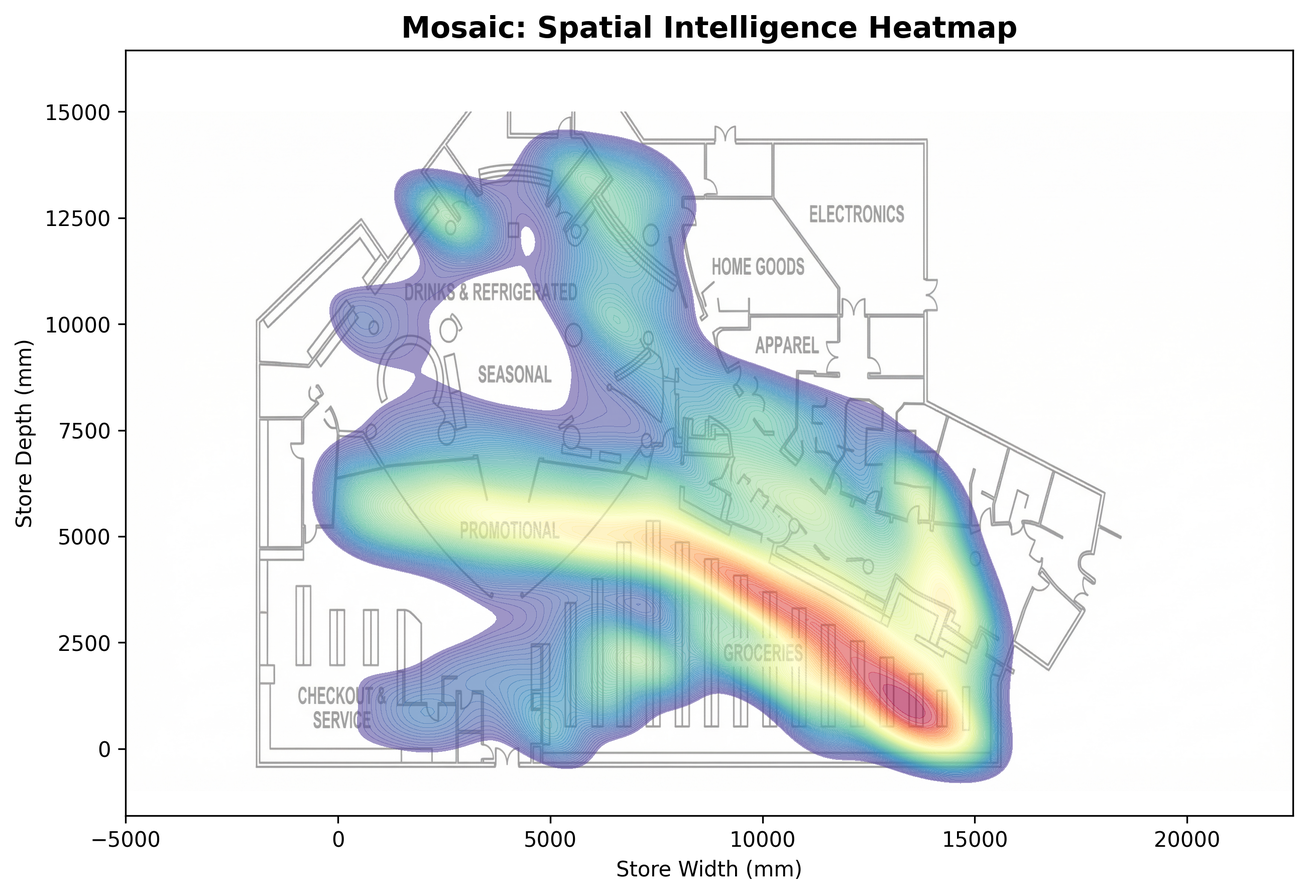
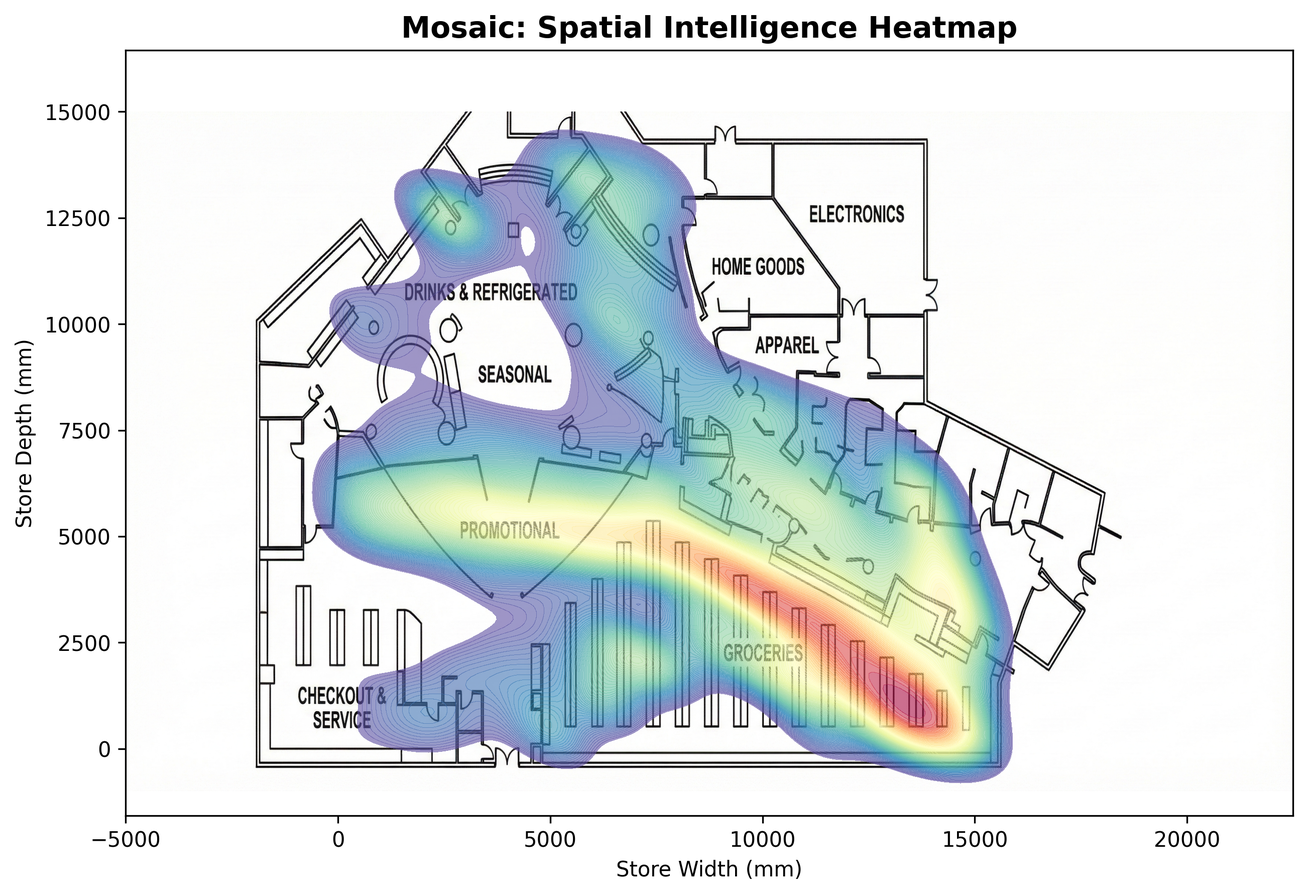
Added heatmap genration, ATC cleaning scripts and Enhanced heatmap (#2)

diff --git a/clean_atc_data.py b/clean_atc_data.py
@@ -1,0 +1,113 @@
+import pandas as pd
+import os
+
+# --- CONFIGURATION ---
+INPUT_FILE = "atc-20121125.csv"       # The file you renamed
+OUTPUT_FILE = "mosaic_history_1125.csv" # The file your Heatmap/Dashboard needs
+
+# 1. STORE BOUNDARIES (Keep data INSIDE this box)
+# Coordinates in ATC are usually millimeters.
+X_MIN, X_MAX = -6000, 9000
+Y_MIN, Y_MAX = -3000, 12000
+
+# 2. OBSTACLES / SHELVES (Remove data INSIDE these boxes)
+# These coordinates must be relative to the *normalized* store (0 to 15000).
+# You will need to tweak these numbers based on your specific 'store_layout.png'.
+# Format: (x_min, x_max, y_min, y_max)
+# 2. OBSTACLES / SHELVES (Remove data INSIDE these boxes)
+# Coordinates estimated from 'final_heatmap1118.png'
+# Format: (x_min, x_max, y_min, y_max)
+RESTRICTED_ZONES = [
+    # --- BOTTOM LEFT ---
+    (2000, 4500, 1500, 3000),    # Checkout & Service Counters
+    
+    # --- MIDDLE LEFT ---
+    (2500, 4000, 5500, 7000),    # 'Promotional' Circular Rack Area
+    (3000, 5000, 8000, 10000),   # 'Seasonal' Area Shelves
+
+    # --- TOP LEFT ---
+    (2000, 5000, 10000, 13000),  # Drinks & Refrigerated Section Wall
+    
+    # --- TOP RIGHT ---
+    (7000, 9000, 11000, 12000),  # Home Goods Shelves
+    (10000, 12500, 12000, 14000),# Electronics Section Wall/Counters
+    
+    # --- MIDDLE RIGHT ---
+    (8500, 10500, 9000, 11000),  # Apparel Racks (Cluster of shelves)
+
+    # --- BOTTOM RIGHT (GROCERY AISLES) ---
+    # These are thin long rectangles representing the actual shelves
+    (6000, 10000, 2500, 3200),   # Grocery Shelf Row 1 (Bottom)
+    (5500, 9500, 4500, 5200),    # Grocery Shelf Row 2 (Middle)
+    
+    # --- ENTRANCE / EXIT BUFFERS (Optional) ---
+    # Sometimes data is messy at the very edges of the map
+    (0, 1000, 0, 15000),         # Left Edge Buffer
+    (14000, 15000, 0, 15000),    # Right Edge Buffer
+]
+
+print(f"⏳ Looking for {INPUT_FILE}...")
+
+if not os.path.exists(INPUT_FILE):
+    print(f"❌ Error: Could not find '{INPUT_FILE}'.")
+    print("   Please rename your downloaded ATC file to 'atc_raw.csv' and place it here.")
+    exit()
+
+# --- STEP 1: LOAD DATA ---
+print("   Loading dataset (this might take a moment)...")
+
+column_names = ["time", "person_id", "x", "y", "z", "velocity", "angle", "facing"]
+
+try:
+    # Loading 500k rows for demo speed
+    df = pd.read_csv(INPUT_FILE, names=column_names, header=None, nrows=500000)
+except Exception as e:
+    print(f"❌ Error reading CSV: {e}")
+    exit()
+
+print(f"   Loaded {len(df)} rows.")
+
+# --- STEP 2: CROP TO STORE BOUNDARIES ---
+print("   Cropping to store boundaries...")
+df_shop = df[
+    (df['x'] >= X_MIN) & (df['x'] <= X_MAX) &
+    (df['y'] >= Y_MIN) & (df['y'] <= Y_MAX)
+].copy()
+
+if df_shop.empty:
+    print("⚠ Warning: Crop resulted in 0 rows. Check your X/Y MIN/MAX values.")
+    exit()
+
+print(f"   Rows inside store: {len(df_shop)}")
+
+# --- STEP 3: NORMALIZE COORDINATES ---
+# Shift coordinates so the store starts at (0,0)
+df_shop['x'] = df_shop['x'] - X_MIN
+df_shop['y'] = df_shop['y'] - Y_MIN
+
+# --- STEP 3.5: REMOVE POINTS INSIDE WALLS/SHELVES ---
+print("   Filtering out aisles and shelf boundaries...")
+initial_count = len(df_shop)
+
+for (r_xmin, r_xmax, r_ymin, r_ymax) in RESTRICTED_ZONES:
+    # We keep only the rows that are NOT inside the restricted rectangle
+    df_shop = df_shop[~((df_shop['x'] >= r_xmin) & (df_shop['x'] <= r_xmax) &
+                        (df_shop['y'] >= r_ymin) & (df_shop['y'] <= r_ymax))]
+
+removed_count = initial_count - len(df_shop)
+print(f"   Removed {removed_count} noise points found inside solid objects.")
+
+# --- STEP 4: CLEANUP ---
+final_df = df_shop[['time', 'person_id', 'x', 'y', 'velocity']]
+
+start_time = final_df['time'].min()
+final_df['time'] = final_df['time'] - start_time
+
+if final_df['time'].max() > 100000: 
+    final_df['time'] = final_df['time'] / 1000
+
+final_df['time'] = final_df['time'].astype(int)
+
+# --- SAVE ---
+final_df.to_csv(OUTPUT_FILE, index=False)
+print(f"✅ Success! Created '{OUTPUT_FILE}' with {len(final_df)} rows.")

diff --git a/generate_heatmap.py b/generate_heatmap.py
@@ -1,0 +1,67 @@
+import pandas as pd
+import matplotlib.pyplot as plt
+import seaborn as sns
+import matplotlib.image as mpimg
+
+# --- CONFIGURATION ---
+DATA_FILE = "mosaic_history_1121.csv"       # Your cleaned ATC data
+MAP_FILE = "store_layout2.png"          # Your cleaned floor plan image
+OUTPUT_FILE = "final_heatmap1121.png"         # Result file
+
+# --- MAP SCALING (Crucial Step) ---
+# We need to stretch your .png map to match the millimeters of the ATC data.
+# Based on your cleaning script:
+# Width (X): -6000 to 9000 = 15,000 units (approx 15 meters)
+# Height (Y): -3000 to 12000 = 15,000 units (approx 15 meters)
+# Format: [Left, Right, Bottom, Top]
+MAP_EXTENT = [-5000, 22500, -1000, 15000]
+
+print(f"⏳ Loading data from {DATA_FILE}...")
+try:
+    df = pd.read_csv(DATA_FILE)
+except FileNotFoundError:
+    print("❌ Error: Data file not found.")
+    exit()
+
+print(f"⏳ Loading map from {MAP_FILE}...")
+try:
+    map_img = mpimg.imread(MAP_FILE)
+except FileNotFoundError:
+    print("❌ Error: Map image not found.")
+    exit()
+
+# --- PLOTTING ---
+print("🎨 Generative AI is rendering the heatmap...")
+
+# 1. Setup the figure size (Make it square to match your 15mx15m crop)
+plt.figure(figsize=(10, 10))
+
+# 2. Draw the Map (Background)
+# 'extent' stretches the image to fit the coordinate system
+plt.imshow(map_img, extent=MAP_EXTENT, cmap='gray', alpha=1, zorder=1)
+
+# 3. Draw the Heatmap (Foreground)
+# We use a 'Spectral_r' colormap (Red=Hot, Blue=Cold)
+# fill=True creates the solid color blobs
+# alpha=0.6 makes it transparent so you can see the shelves underneath
+sns.kdeplot(
+    x=df['x'], 
+    y=df['y'], 
+    fill=True, 
+    thresh=0.05,           # Removes the lowest 5% of noise (cleans up the blue edges)
+    levels=100,            # More levels = smoother gradients
+    cmap="Spectral_r",     # The classic heatmap colors
+    alpha=0.6,
+    zorder=2
+)
+
+# 4. Styling
+plt.title("Mosaic: Spatial Intelligence Heatmap", fontsize=14, fontweight='bold')
+plt.xlabel("Store Width (mm)")
+plt.ylabel("Store Depth (mm)")
+plt.grid(False) # Turn off grid so it looks like a clean app dashboard
+
+# --- SAVE & SHOW ---
+plt.savefig(OUTPUT_FILE, dpi=300, bbox_inches='tight')
+print(f"✅ Success! Heatmap saved to '{OUTPUT_FILE}'")
+plt.show()
